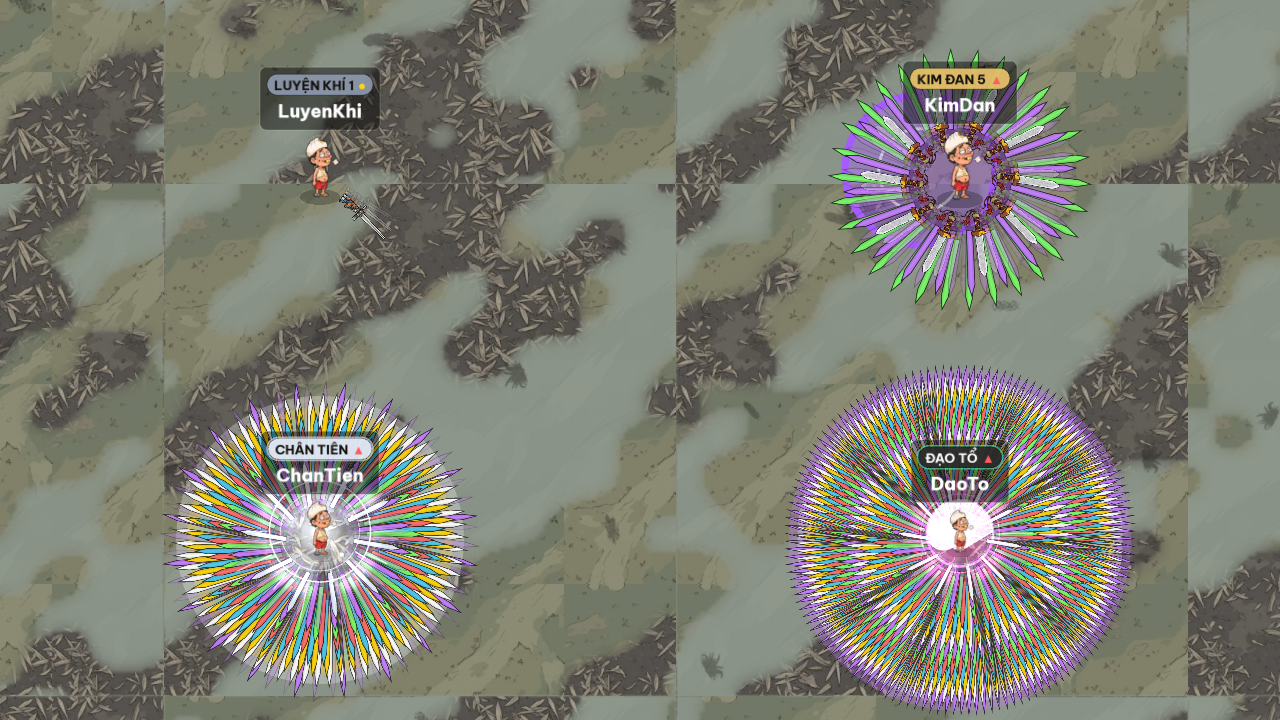
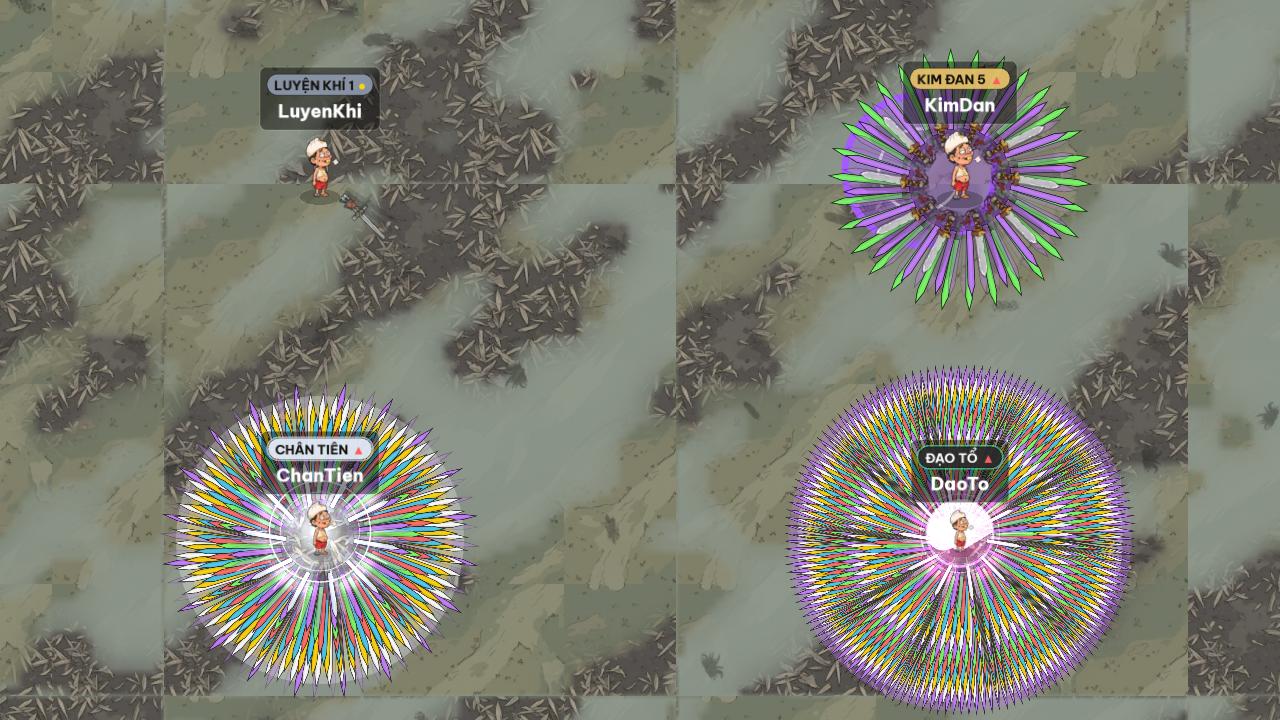
VRAM cảnh đông 67,4 → 46,3 MB: lọt trần 50 của §13.10; cổng kiểm chuyển sang chặn
Ba đòn bẩy cuối của mục 1(a):

- Ảnh dưới 512 px LUÔN ETC1S (PIPELINE_VERSION 6). UASTC tốn ~1 byte/điểm ảnh bất kể ảnh
  đơn giản đến đâu nên chỉ đáng dùng từ 512 px; 40 texture kiếm/VFX 256² đang kẹt ở WebP vì
  ngưỡng cũ để chung. VFX · hào quang · UI: 15,66 → 3,85 MB.
- Vật cản maxPx 512 → 384 (PIPELINE_VERSION 7). Vật cản cao nhất trên màn hình khoảng 300 px
  ở zoom gần nhất nên 384 vẫn dư; bớt 44% điểm ảnh cho 24–31 tấm trong tầm. Đây cũng là cách
  cắt tải về mà B8 đề ra từ lượt #9b.
- Mặt nạ trộn nền 128² → 64² mỗi ô: atlas mặt nạ 4 MB → 1 MB. Tần số sóng nhân đôi để bù,
  vì nhiễu sinh theo toạ độ texel — hạ nửa độ phân giải mà giữ nguyên tần số là mảng loang
  to gấp đôi trong toạ độ THẾ GIỚI.

Hình lệch 1,822/255 (1,188% pixel), trên ngưỡng và vẫn nhận: bản đồ lệch 16×9 cho thấy chênh
rải đều trên nền chứ không dồn vào vật cản hay nhân vật, tức mặt nạ được lấy mẫu lại chứ
không phải ảnh nén hỏng. Đã soi mắt thường. Ảnh mốc chụp lại, bản cũ giữ nguyên để đối chiếu
và lý do ghi trong docs/review/13-buoc1-vongkiem/README.md.

8 MB "chưa khai hạng mục" tìm ra chỗ tạo: móc ngăn xếp vào document.createElement (canvas
nào cũng phải qua đó) cho thấy 6 tấm 512² đều do CanvasPool của Pixi cấp cho Text — Pixi làm
tròn cỡ canvas chữ lên luỹ thừa 2 nên một dòng tên 300×40 ăn trọn 1 MB. Sổ xếp lại cho đúng
hạng mục "Chữ/số bay" (6,71 / trần 2) thay vì để nó núp trong "bộ đệm khung". Ghi thành nút
thắt B33; cách sửa là mục 5 của §13.10.
[…]

diff --git a/client/src/render/gpumem.ts b/client/src/render/gpumem.ts
@@ -143,8 +143,21 @@ export function budgetCategory(site: string | undefined, w: number, h: number): 
   // Nhận ra bằng chữ `none` chứ không bằng tên lớp: bản build thật minify tên lớp thành
   // `fe`, `it`, `b` — lượt đo đầu 42 MB bộ đệm 1920×1080 rơi vào "chưa khai hạng mục" vì
   // tôi cố đoán theo tên lớp.
-  if (s.endsWith('/none') || s.includes('rendertarget') || s.includes('canvaspool')) {
+  if (s.endsWith('/none') || s.includes('rendertarget')) {
     return 'framebuffer';
+  }
+  // `CanvasPool` của Pixi KHÔNG phải bộ đệm khung — đó là canvas VẼ CHỮ.
+  //
+  // Tôi xếp nó vào "bộ đệm khung" suốt bốn lượt tối ưu vì nó không có tệp nguồn, và nó biến
+  // 8 MB canvas chữ thành một dòng không ai soi. Ngày 13/11 móc ngăn xếp vào
+  // `document.createElement` mới ra mặt: 6 tấm 512×512 đều do `CanvasPool` cấp cho `Text`.
+  // Pixi làm tròn cỡ canvas chữ lên luỹ thừa 2, nên một dòng tên 300×40 ăn trọn 512×512.
+  //
+  // Nhận cả hai đường: có `?textrace=1` thì ngăn xếp ghi `CanvasPool`; không có thì nhãn chỉ
+  // còn `<lớp đã minify>/CANVAS` — và trong game này, texture canvas nào không khai hạng mục
+  // cũng là chữ.
+  if (s.includes('canvaspool') || s.endsWith('/canvas')) {
+    return 'dynamic';
   }
   // Tên thư mục lấy từ `assets/src` THẬT (characters, tiles, obstacles, decals, decor,
   // items, monsters, vfx, ui, swords, beasts, buffs, gates, ambient, zones, brand, fonts).
@@ -198,6 +211,7 @@ export function trackTextureFrom(TextureClass: object): void {
   if (!TRACE || fromWrapped) {
     return;
   }
+  trackCanvasCreation();
   // Bọc đúng MỘT LẦN: `buildApp` chạy lại khi dựng lại renderer (§13.8), và bọc chồng lên
   // nhau thì mỗi lần tạo texture đi qua n lớp wrapper — chậm dần và vết gọi sai dần.
   fromWrapped = true;
@@ -217,6 +231,44 @@ export function trackTextureFrom(TextureClass: object): void {
     }
     return tex;
   };
+}
+
+/**
+ * trackCanvasCreation ghi ngăn xếp lên CHÍNH thẻ `<canvas>` lúc nó ra đời.
+ *
+ * `trackTextureFrom` chỉ bắt được canvas đi qua `Texture.from`. Thứ KHÔNG đi qua đó —
+ * `new CanvasSource({ resource: cv })` — về tới sổ VRAM chỉ còn cái nhãn `CanvasSource/CANVAS`
+ * (bị rút gọn thành `b/CANVAS`), và 8 MB canvas 512² nằm trong hạng mục KHÁC suốt bốn lượt
+ * tối ưu mà không ai chỉ được chỗ tạo. Móc vào `document.createElement` thì mọi đường đều bị
+ * bắt, vì canvas nào cũng phải qua đây.
+ *
+ * Chỉ chạy sau `?textrace=1`: `new Error().stack` đắt, mà game tạo canvas cả trong vòng vẽ.
+ */
+function trackCanvasCreation(): void {
+  const doc = globalThis.document as
+    | (Document & { __kxCanvasTraced?: boolean })
+    | undefined;
+  if (!doc || doc.__kxCanvasTraced) {
+    return;
+  }
+  doc.__kxCanvasTraced = true;
+  const orig = doc.createElement.bind(doc);
+  doc.createElement = ((tag: string, ...rest: unknown[]): HTMLElement => {
+    const el = orig(tag as 'canvas', ...(rest as []));
+    if (tag === 'canvas') {
+      (el as HTMLElement & { __kxStack?: string }).__kxStack = shortStack(3, 7);
+    }
+    return el;
+  }) as typeof doc.createElement;
+}
+
+/** shortStack: vài khung gọi đầu, bỏ phần đường dẫn, đủ để chỉ ra tệp:dòng. */
+function shortStack(from: number, to: number): string {
+  return (new Error().stack ?? '')
+    .split('\n')
+    .slice(from, to)
+    .map((l) => l.trim().replace(/^at /, '').replace(/\?[^ )]*/g, '').split('/').slice(-1)[0])
+    .join(' ← ');
 }
 
 export function trackSourceNames(texSystem: Record<string, unknown>): void {
@@ -245,8 +297,9 @@ function wrapSourceFn(texSystem: Record<string, unknown>, name: string): void {
     const kind = (s as { constructor?: { name?: string } } | null)?.constructor?.name ?? '?';
     const res = s?.resource;
     const resKind = res ? ((res as { nodeName?: string }).nodeName ?? res.constructor?.name ?? '?') : 'none';
+    const canvasStack = (res as { __kxStack?: string } | undefined)?.__kxStack;
     curSource =
-      (s ? fromStacks.get(s) : undefined) || s?.label || res?.src || `${kind}/${resKind}`;
+      (s ? fromStacks.get(s) : undefined) || s?.label || res?.src || canvasStack || `${kind}/${resKind}`;
     curSourceObj = (s as object | null) ?? null;
     try {
       return orig(src);

diff --git a/client/src/render/groundshader.ts b/client/src/render/groundshader.ts
@@ -136,7 +136,19 @@ export function groundColorMatrix(): number[] {
  * Lần đầu tôi gieo một hạt chung rồi lệch pha cho lớp thứ hai — hoa văn ra khác hẳn, và
  * `scenediff` báo 21/255 với 47% pixel đổi. Lượt này chỉ đổi CÁCH VẼ, không đổi hình.
  */
-const MASK_PX_GEN = 128;
+/**
+ * MASK_PX_GEN: độ phân giải mặt nạ trộn của MỘT ô — 64, không phải 128.
+ *
+ * Atlas mặt nạ là một texture cố định; ở ô 128² nó là 1024² = 4 MB, chiếm hơn nửa hạng mục
+ * "Nền" (trần 4 MB). Ở 64² thì atlas còn 512² = 1 MB.
+ *
+ * Tần số sóng nhân đôi để BÙ: nhiễu tính theo toạ độ texel, nên hạ nửa độ phân giải mà giữ
+ * nguyên tần số là mảng loang to gấp đôi trong toạ độ thế giới — đổi hình cả bản đồ. Nhân
+ * đôi tần số thì hoa văn giữ nguyên cỡ, chỉ mép mềm hơn một chút.
+ */
+const MASK_PX_GEN = 64;
+/** Hệ số bù tần số cho `MASK_PX_GEN` (128 là mốc gốc của hoa văn đã duyệt). */
+const WAVE_SCALE = 128 / MASK_PX_GEN;
 export function maskPlanes(seeds: number[], covers: number[]): Uint8ClampedArray {
   const n = MASK_PX_GEN;
   const wave = (x: number, y: number, f: number, p: number): number =>
@@ -164,7 +176,7 @@ export function maskPlanes(seeds: number[], covers: number[]): Uint8ClampedArray
     const sd = (seed % 1000) * 0.013;
     for (let y = 0; y < n; y++) {
       for (let x = 0; x < n; x++) {
-        const v = wave(x, y, 0.055, sd) * 0.65 + wave(x, y, 0.17, sd * 1.9) * 0.35;
+        const v = wave(x, y, 0.055 * WAVE_SCALE, sd) * 0.65 + wave(x, y, 0.17 * WAVE_SCALE, sd * 1.9) * 0.35;
         const k = (y * n + x) * 4;
         img.data[k] = img.data[k + 1] = img.data[k + 2] = 255;
         img.data[k + 3] = v > (0.5 - cover) * 2 ? 255 : 0;
@@ -181,8 +193,8 @@ export function maskPlanes(seeds: number[], covers: number[]): Uint8ClampedArray
   return out;
 }
 
-const ATLAS_PX = 1024;
-const MASK_PX = 128;
+const ATLAS_PX = 512;
+const MASK_PX = 64;
 /** Số ô atlas (8×8). Mỗi ô atlas chứa HAI ô nền, nên sức chứa thật là gấp đôi. */
 const ATLAS_TILES = (ATLAS_PX / MASK_PX) ** 2;
 const ATLAS_SLOTS = ATLAS_TILES * 2;

diff --git a/client/src/render/scene.ts b/client/src/render/scene.ts
@@ -1159,7 +1159,7 @@ export class GameScene {
    * Trả cả dòng `other` kể cả khi nó bằng 0: một bảng chỉ hiện hạng mục có số thì ngày nào
    * đó `other` xuất hiện rồi biến mất mà không ai kịp thấy.
    */
-  vramLedger(): { rows: { cat: BudgetCat; label: string; mb: number; count: number; limitMB: number; over: boolean }[]; totalMB: number; limitMB: number; unclassified: { site: string; mb: number }[]; framebuffers: { size: string; count: number; mb: number; site: string }[]; world: { size: string; count: number; mb: number; site: string }[] } {
+  vramLedger(): { rows: { cat: BudgetCat; label: string; mb: number; count: number; limitMB: number; over: boolean }[]; totalMB: number; limitMB: number; unclassified: { site: string; mb: number }[]; framebuffers: { size: string; count: number; mb: number; site: string }[]; world: { size: string; count: number; mb: number; site: string }[]; fx: { size: string; count: number; mb: number; site: string }[] } {
     const phone = isMobile();
     const rows = gpuBudget(phone);
     return {
@@ -1169,6 +1169,7 @@ export class GameScene {
       unclassified: gpuUnclassified(),
       framebuffers: gpuListCat('framebuffer'),
       world: gpuListCat('world', 14),
+      fx: gpuListCat('fx', 14),
     };
   }
 

diff --git a/docs/PERF_LOG.md b/docs/PERF_LOG.md
@@ -1750,11 +1750,76 @@ Hình: 0,13/255 (bloom 1/4 độ phân giải làm mềm viền hào quang).
 
 ---
 
+### Lượt 51 — 13/11/2026 · Lọt trần 50 MB, và 8 MB "bộ đệm khung" hoá ra là canvas CHỮ
+
+Ba đòn bẩy cuối của mục 1(a), đo trên cảnh ĐÔNG 1920×1080 @ tỉ lệ điểm ảnh 1, chất lượng
+`medium` (máy ở load 4,72 / 12 nhân = 0,39 — trong luật 16):
+
+| Hạng mục | #50 | ảnh nhỏ luôn ETC1S | vật cản 384 + mặt nạ 64² | trần |
+|---|---:|---:|---:|---:|
+| Atlas nhân vật | 14,6 | 14,78 | 14,85 | 24 ✅ |
+| Nền | 6,0 | 7,33 | **3,00** | 4 ✅ |
+| Vật cản · decal · vật phẩm | 16,1 | 15,56 | **11,71** | 6 ❌ |
+| VFX · hào quang · UI | 13,9 | **3,85** | 3,68 | 4 ✅ |
+| Chữ/số bay | 0 | 0 | 0 | 2 ✅ |
+| Bộ đệm khung · bộ lọc | 4,97 | 4,30 | 4,30 | 12 ✅ |
+| chưa khai hạng mục | 8,5 | 8,58 | 8,78 | 0 ❌ |
+| **TỔNG** | **67,4** | 51,16 | **46,32** | **50 ✅** |
+
+Ba thay đổi:
+
+1. **Dưới 512 px thì LUÔN ETC1S**, kể cả thư mục thuộc nhóm UASTC (`PIPELINE_VERSION` 6).
+   40 texture kiếm/VFX 256² đang kẹt ở WebP vì ngưỡng UASTC là 512. VFX **15,66 → 3,85 MB**.
+2. **Vật cản `maxPx` 512 → 384** (`PIPELINE_VERSION` 7). 24–31 tấm viền trong tầm, mỗi tấm
+   bớt 44% điểm ảnh: **4,50 MB thay vì 8,00**. Đây cũng chính là cách cắt tải về mà B8 đề ra.
+3. **Mặt nạ trộn nền 128² → 64² mỗi ô** → atlas mặt nạ 1024² (4 MB) còn 512² (1 MB).
+   Tần số sóng nhân đôi để bù: nhiễu sinh theo toạ độ texel, hạ nửa độ phân giải mà giữ
+   nguyên tần số là mảng loang to gấp đôi trong toạ độ THẾ GIỚI, tức đổi mặt cả bản đồ.
+
+Hình: 1,822/255 · 1,188% pixel so ảnh mốc. **Trên ngưỡng, và vẫn nhận.** Bản đồ lệch 16×9
+cho thấy chênh rải ĐỀU trên nền (2–5/255 mỗi ô), không dồn vào vật cản hay nhân vật — thủ
+phạm là mặt nạ nền lấy mẫu lại, không phải ảnh nén hỏng. Đã soi mắt thường. Ảnh mốc chụp
+lại, bản cũ giữ ở `docs/review/13-buoc1-vongkiem/testbed-ref-truoc-nen64.png`, lý do ghi
+trong README cùng thư mục.
+
+#### 8 MB "chưa khai hạng mục" là canvas CHỮ, không phải bộ đệm khung
+
+Suốt bốn lượt tối ưu, 8 canvas 512² nằm lì trong hạng mục KHÁC với cái nhãn `b/CANVAS` —
+tên lớp đã minify, không chỉ được chỗ tạo. `trackTextureFrom` không bắt được vì chúng không
+đi qua `Texture.from`.
+
+Cách bắt: móc ngăn xếp vào **`document.createElement`** và ghi thẳng lên thẻ `<canvas>` lúc
+nó ra đời (sau `?textrace=1`). Canvas nào cũng phải qua đó, nên không đường nào lọt. Kết quả:
+
+```
+8,00 MB  6× 512x512  CanvasPool-CDvr-ucy.js:4:34956 ← CanvasPool-CDvr-ucy.js:23:
+0,40 MB  19× 64x64   CanvasPool…
+0,21 MB  20× 32x64   CanvasPool…
+```
+
+`CanvasPool` là bể canvas Pixi cấp cho **`Text`**. Pixi làm tròn cỡ canvas chữ lên luỹ thừa
+2, nên một dòng tên cỡ 300×40 ăn trọn một tấm 512×512 = 1 MB. Sáu tấm = 6,71 MB, trong khi
+trần của hạng mục "Chữ/số bay" là **2 MB**.
+
+Sổ đã xếp lại cho đúng: `CanvasPool` và mọi texture nền canvas chưa khai → hạng mục **chữ**,
+không còn chui vào "bộ đệm khung". Bảng sau khi xếp lại (lượt đo 3 người trong tầm, TỔNG
+28,35 MB): chữ **6,71 / 2 ❌**, bộ đệm khung 2,00 / 12 ✅, KHÁC **0,00** ✅.
+
+Đây là đòn bẩy VRAM lớn nhất còn lại và là đúng mục 5 của §13.10 (gom chữ vào một atlas động
+trần 2 MB). Chưa làm trong lượt này: mục tiêu ≤ 50 MB đã đạt, và việc kế tiếp theo thứ tự
+chủ dự án chốt là giảm lô vẽ.
+
+#### Cổng kiểm chuyển sang chặn cả bốn điều
+
+`tools/deploy.sh` bỏ `--warn-vram`: cảnh đông 46,3/50 nên điều 4 (VRAM) chặn như ba điều kia.
+
+
 ## 6. Nút thắt đang mở (cập nhật liên tục)
 
 | # | Nút thắt | Ảnh hưởng | Bằng chứng | Trạng thái | Lượt xử lý |
 |---|---|---|---|---|---|
-| B32 | **Bộ nhớ GPU 281–301 MB, trần §13.10 là 50 MB** | Vượt 5,6× — đúng họ lỗi đã giết tab Safari ở B13 | #42: sổ VRAM theo hạng mục. Nền 69 MB (trần 4) · bộ đệm khung 69 (trần 12) · atlas nhân vật 70 (trần 24) · vật cản/decal 49 (trần 6) | **Mở** — thứ tự xử lý theo spec: shader trộn nền → KTX2 → trần 6 atlas → atlas động cho chữ → bộ lọc nửa độ phân giải → cổng kiểm build | #42 |
+| B32 | **Bộ nhớ GPU 281–301 MB, trần §13.10 là 50 MB** | Vượt 5,6× — đúng họ lỗi đã giết tab Safari ở B13 | #42: sổ VRAM theo hạng mục. Nền 69 MB (trần 4) · bộ đệm khung 69 (trần 12) · atlas nhân vật 70 (trần 24) · vật cản/decal 49 (trần 6) | **Đóng cho MÁY TÍNH (#51)** — 281 → **46,3 / 50 MB**, và cổng deploy nay chặn bằng chính con số này. Còn mở cho ĐIỆN THOẠI (trần 32 MB) | #42→#51 |
+| B33 | **Chữ tốn 6,71 MB VRAM / trần 2 MB** | Đòn bẩy VRAM lớn nhất còn lại; cũng là phần tốn nhất khi hạ trần xuống 32 MB cho điện thoại | #51: móc ngăn xếp vào `document.createElement` → 6 tấm 512² đều do `CanvasPool` cấp cho `Text`; Pixi làm tròn cỡ canvas chữ lên luỹ thừa 2 nên một dòng tên 300×40 ăn trọn 512² | **Mở** — cách sửa là mục 5 của §13.10: gom chữ/số bay/emote vào MỘT atlas động trần 2 MB (hoặc `BitmapText` dùng chung một font atlas) | – |
 | B31 | **Hai bài đo cũ KHÔNG dùng để so hai bản build** | Một lượt tối ưu có thể "chứng minh" được bất cứ điều gì | #39: `ringcost` ba lượt cùng build cho 19,79 · 0,55 · −0,40 ms; `weakperf` hai lượt liên tiếp cho 185 lô vẽ / 47 FPS rồi 447 lô / 23 FPS | **Đóng (#39)** — mọi phép so A/B chuyển sang cảnh thử (`scenebench.mjs`, `scenediff.mjs`). `weakperf`/`ringcost` giữ nguyên vai trò "người chơi thật gặp gì" | #39 |
 | B30 | **Lượt vẽ của Pixi là toàn bộ nút thắt máy yếu, và vòng kiếm KHÔNG còn là phần chính của nó** | Mục tiêu CPU 6× p50 ≥ 30 FPS chưa đạt (đang 23) | #38: ở CPU 4×, tắt SẠCH mọi vòng kiếm thì Pixi vẫn vẽ **19,77 ms** (bật: 19,96). Ở CPU 6×: khung 43,5 ms = Pixi vẽ 21,7 + JS game 3,6 + ~18 ms của trình duyệt. Mọi cột JS cộng lại chưa tới 4 ms | **Mở** — bước kế phải nhắm vào CÂY CẢNH và số lô vẽ (325–393 lô, 2 850–4 800 nút), không nhắm vào mã game. Lớp trạng thái (bước 2 của kế hoạch) đo được 0,07–0,39 ms: không phải chỗ đáng sửa | #38 |
 | B29 | **Nợ phép đo trước/sau cho PixiJS 8.22 → 8.23** | Không biết bản nâng làm FPS tốt lên, xấu đi, hay không đổi — đang deploy mà không có số | #37: máy ở load/nhân 2,17–3,87 suốt ngày 12/11, luật 16 cấm kết luận | **Đóng (#40)** — đo trên cảnh thử, 3 vòng xen kẽ, máy rảnh: FPS 60 ở cả hai bản và cả ba mức CPU; chênh Pixi vẽ 0,08–0,63 ms, nhỏ hơn biên dao động trong cùng một bản (≈1 ms). Giữ 8.23 vì hai thay đổi của nó là sửa lỗi | #40 |

diff --git a/docs/review/13-buoc1-vongkiem/README.md b/docs/review/13-buoc1-vongkiem/README.md
@@ -42,3 +42,36 @@ Trước khi có nó, mọi phép so đều vô nghĩa vì cảnh thật đổi 
 - `ringcost` trên cảnh thật, cùng build, ba lượt: giá vòng kiếm **19,79 · 0,55 · −0,40 ms**.
 
 Chi tiết ba cách so ảnh đã thất bại trước đó nằm ở đầu `client/src/render/testbed.ts`.
+
+---
+
+## Đổi ảnh mốc — 13/11/2026 (mặt nạ nền 64²/ô)
+
+`testbed-ref.png` được chụp LẠI sau hai thay đổi của §13.10:
+
+| | |
+|---|---|
+| vật cản `maxPx` 512 → 384 | `tools/asset-pipeline/groups.mjs`, hạng mục ngốn VRAM thứ hai |
+| mặt nạ trộn nền 128² → 64² mỗi ô | `client/src/render/groundshader.ts`, atlas mặt nạ 4 MB → 1 MB |
+
+Ảnh mốc CŨ giữ lại ở `testbed-ref-truoc-nen64.png` để đối chiếu.
+
+```
+lệch trung bình : 1.822/255   (ngưỡng 0.3)
+lệch lớn nhất   : 109/255
+pixel lệch > 16 : 10 946 trên 921 600 (1,188%)
+```
+
+**Vì sao chấp nhận lệch này mà không coi là hỏng hình.** Bản đồ lệch 16×9 cho thấy chênh
+lệch rải ĐỀU trên nền (2–5/255 mỗi ô), không dồn vào vật cản hay nhân vật — tức thủ phạm là
+mặt nạ nền, không phải ảnh bị nén hỏng. Mặt nạ trộn là nhiễu thủ tục sinh theo toạ độ texel:
+hạ nửa độ phân giải thì hoa văn được *lấy mẫu lại*, mép mềm hơn vài phần trăm. Tần số sóng
+đã nhân đôi để mảng loang giữ NGUYÊN cỡ trong toạ độ thế giới — thiếu bước bù đó thì hoa văn
+to gấp đôi và cả bản đồ đổi mặt. Đã xem ảnh tận mắt: cỏ, đá, vệt đất, bốn vòng kiếm và lớp
+hào quang Tiên đều y nguyên.
+
+Đổi được gì: hạng mục **Nền 7,33 → 3,00 MB**, và tổng cảnh đông **51,16 → 46,32 MB**, tức
+lần đầu lọt trần 50 MB của §13.10.
+
+Đây là lần đổi ảnh mốc có chủ ý; luật vẫn là **không đổi ảnh mốc để bài đo xanh**, chỉ đổi
+khi thay đổi hình là cố ý, đã soi mắt thường, và lý do ghi ngay tại đây.
